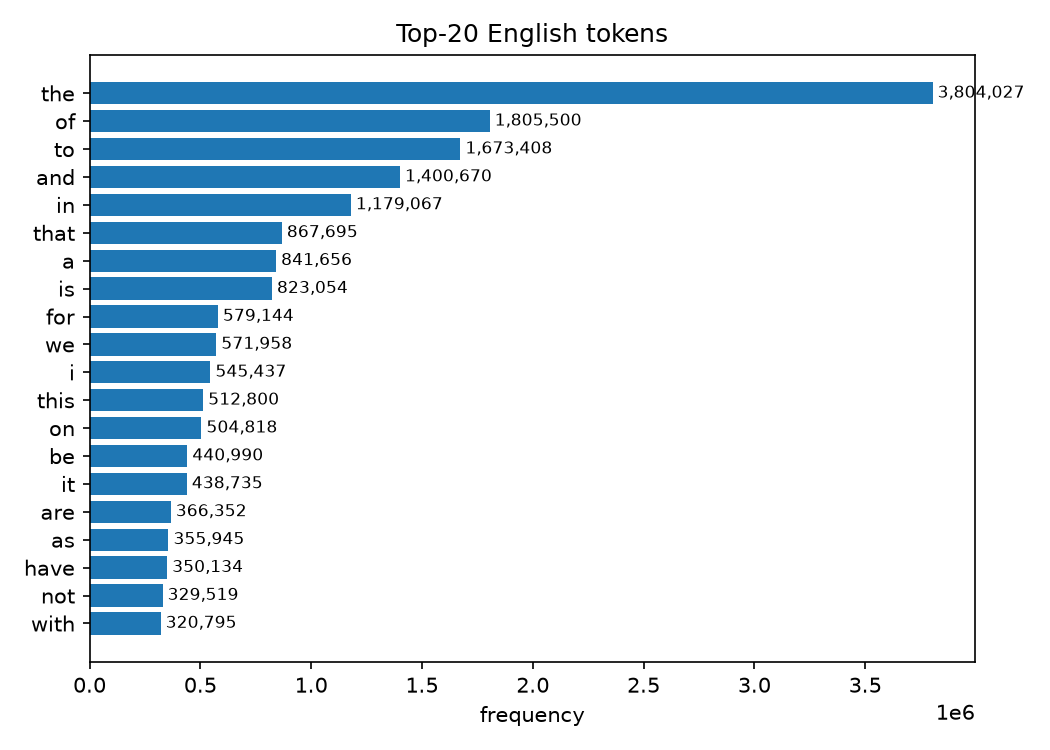
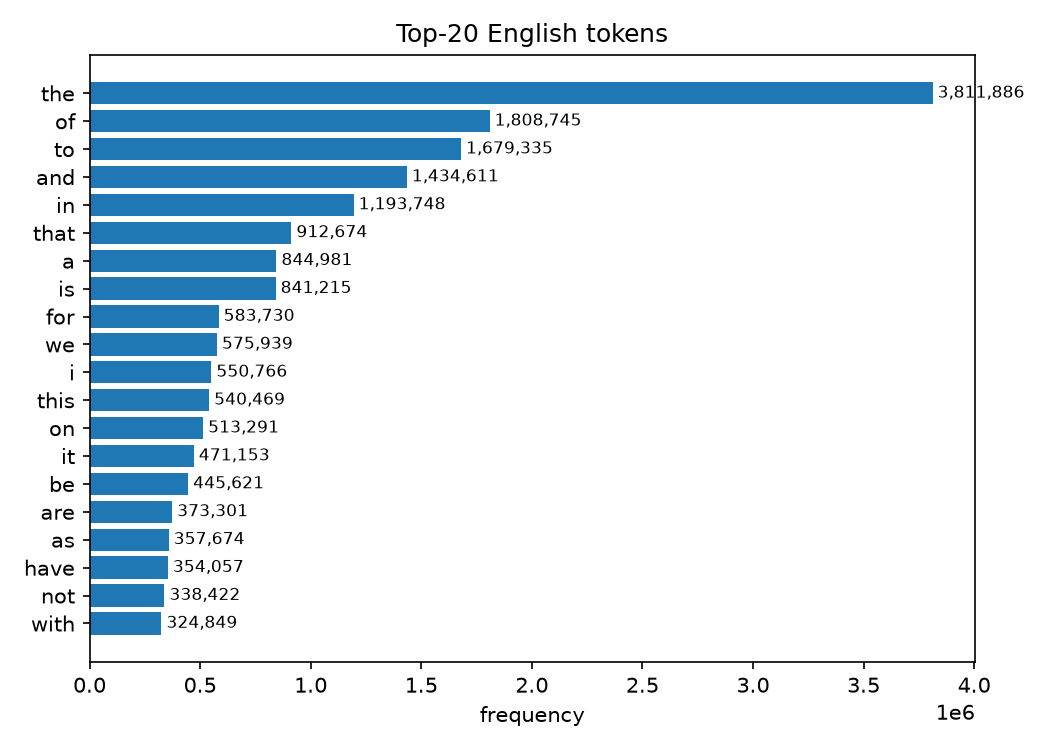
Task 1: fix vocabulary counting, add OOV analysis, cite a figure
Bug: vocabulary was counted with .split(), so "session", "session." and
"session," were three distinct types. This inflated both vocabularies about
threefold. Counting with punctuation separated gives 88,040 EN / 170,625 IT,
and strengthens the finding: Italian needs 94% more word types, not 55%.

Also add the out-of-vocabulary rate at a 10k vocabulary (EN 1.92%, IT 5.18%),
which turns the morphology observation into a concrete cost and explains the
generic <unk> outputs seen in Task 3.

Report: cite the length-distribution figure (the brief asks for graphs and we
cited none), drop an unsourced claim about Romance vs Germanic sentence length
that was not derived from our data, and add \graphicspath so figures resolve
both locally and on Overleaf.

diff --git a/report/report.tex b/report/report.tex
@@ -11,6 +11,16 @@
 
 \usepackage{booktabs}
 \usepackage{graphicx}
+% Look for figures both in the repo's results folders and next to this file.
+% On Overleaf there is no results/ directory, so upload the PNGs into the
+% project root and the second path picks them up.
+\graphicspath{%
+  {../results/task1_outputs/}%
+  {../results/task2_outputs/}%
+  {../results/task3_outputs/}%
+  {../results/task4_outputs/}%
+  {./}%
+}
 
 \begin{document}
 
@@ -58,31 +68,54 @@ We use the Europarl v7 English--Italian parallel corpus, which contains
 \midrule
 Sentence pairs      & 1,909,115 & 1,909,115 \\
 Total tokens        & 49.7\,M   & 48.0\,M   \\
-Vocabulary (types)  & 275,537   & \textbf{426,025} \\
+Vocabulary (types)  & 88,040    & \textbf{170,625} \\
 Mean length (tokens)& 26.05     & 25.13 \\
 Median length       & 23        & 23 \\
 Max length          & 668       & 558 \\
 Empty lines         & 3,257     & 4,985 \\
+OOV rate at 10k vocab & 1.92\%    & \textbf{5.18\%} \\
 \bottomrule
 \end{tabular}
 \end{table}
 
 The most informative asymmetry is lexical rather than positional. Italian uses
 slightly \emph{fewer} tokens than English on average (25.13 vs.\ 26.05) yet
-requires 55\% more distinct word types (426,025 vs.\ 275,537). This reflects
+requires 94\% more distinct word types (170,625 vs.\ 88,040). This reflects
 Italian's richer inflectional morphology: a single verb lemma surfaces as many
-conjugated forms, each a separate entry for a word-level model. Two practical
-consequences follow. First, under a fixed vocabulary cap the Italian side
-suffers more out-of-vocabulary loss, so generating Italian is harder than
-generating English -- a prediction we test in
-Section~\ref{sec:direction}. Second, it motivates the character-level model of
-Section~\ref{sec:char}, which avoids the vocabulary explosion entirely.
+conjugated forms, each a separate entry for a word-level model, whereas English
+marks the same distinctions with separate function words that are already in the
+vocabulary.
 
-We also note that the common assumption that Romance translations are longer
-than their Germanic sources does not hold at the token level here; it holds in
-characters, not words. Sentence lengths are strongly correlated across the two
-languages ($r = 0.946$), which makes length a clean axis for the error analysis
-in Section~\ref{sec:length}.
+This asymmetry is not merely descriptive; it sets a ceiling on what a word-level
+model can do. With the 10,000-type vocabulary used in Section~\ref{sec:nmt},
+5.18\% of Italian tokens fall outside the vocabulary against only 1.92\% of
+English ones. Every such token is emitted as \texttt{<unk>} and is an
+unrecoverable error, so the target side is intrinsically harder to generate than
+the source side. Two predictions follow, both tested later: translating
+\emph{into} English should outperform translating into Italian
+(Section~\ref{sec:direction}), and a character-level model, which has no
+vocabulary cap at all, should close part of the gap (Section~\ref{sec:char}).
+
+We note that these counts are sensitive to tokenisation. Splitting on whitespace
+alone conflates \texttt{session} with \texttt{session.}\ and inflates the type
+counts roughly threefold (to 275,537 and 426,025) while doubling the apparent
+OOV rate; the figures above separate punctuation.
+
+The length distributions themselves are close to identical
+(Figure~\ref{fig:length}): both peak around 20 tokens with a long right tail, and
+per-sentence lengths are strongly correlated across the two languages
+($r = 0.946$). Length is therefore a clean axis along which to analyse errors,
+which we use in Section~\ref{sec:length}. The long tail also motivates the length
+cap applied in Section~\ref{sec:nmt}: a small number of very long sentences
+(up to 668 tokens) would otherwise dominate padding and training cost.
+
+\begin{figure}[t]
+\centering
+\includegraphics[width=\columnwidth]{length_distribution.png}
+\caption{Sentence-length distributions, English vs.\ Italian (clipped at 80
+tokens). The two languages are closely matched in tokens per sentence.}
+\label{fig:length}
+\end{figure}
 
 Because the full corpus is too large to train on, we randomly sample 10\% of
 the aligned pairs (190,912 pairs, seed 42). Sampling is performed over